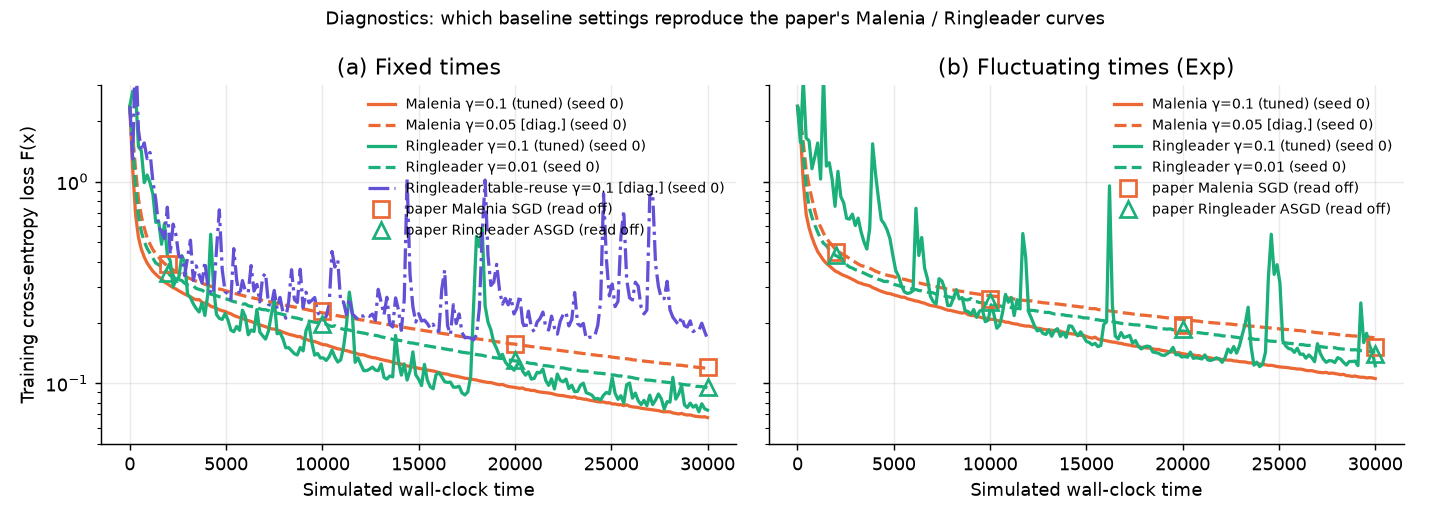
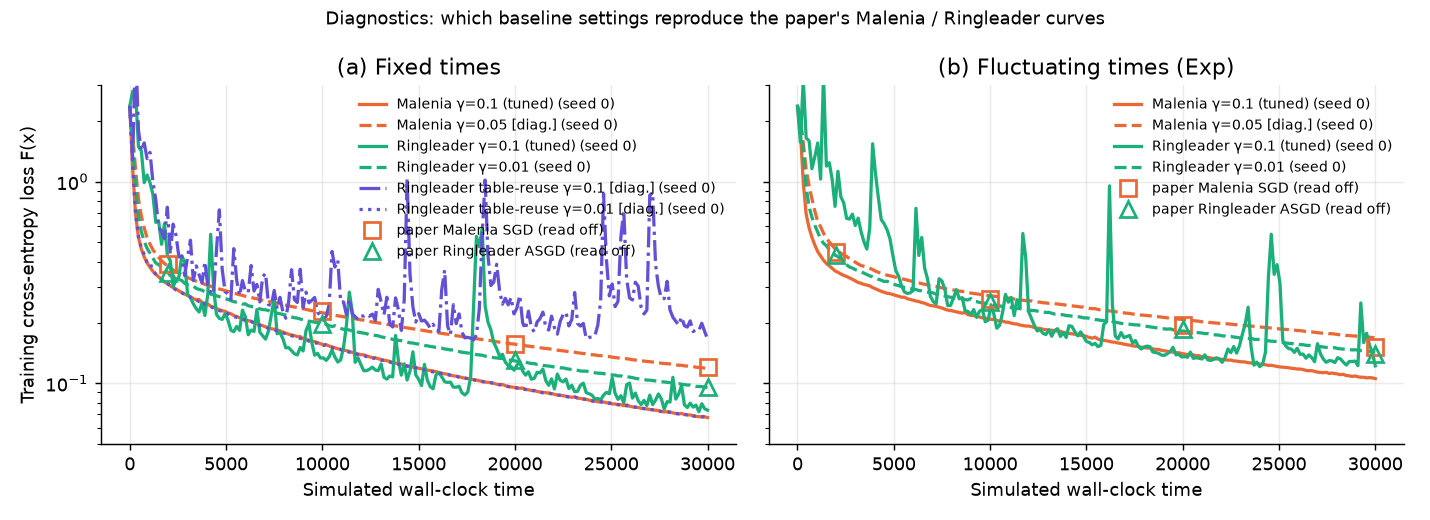
Rescaled ASGD replication: complete random-time Ringleader seeds, add stale-table diagnostic
Random-time Ringleader now has 5 seeds (median final loss 0.122). Adds the
table-reuse Ringleader diagnostic on MNIST (0.067 at gamma=0.01, fixed times,
seed 0) and regenerates the figures. The headline comparison stays on the
tuned gamma=0.1; paper-matching baseline stepsizes are given as a note only.

diff --git a/README.md b/README.md
@@ -22,7 +22,7 @@ Each one is pinned down with a clearly labelled diagnostic run below.
 |---|---|---|---|
 | E1 Fig. 1(a) MNIST, fixed τ | Rescaled ASGD beats Malenia and Ringleader; final loss ≈0.029 / 0.120 / 0.096 | Rescaled 0.029 (median of 5 seeds; curve matches the paper at every read-off point). Tuned baselines: Malenia 0.068, Ringleader 0.099 | **Replicated** (Rescaled wins by 2.3–3.4×, versus about 3–4× in the paper) |
 | E1 tuning | selected γ lie in the interior of {1e-4,…,1} | γ = 0.1 for all three methods (interior) | Replicated |
-| E2 Fig. 1(b) MNIST, Exp times | Malenia and Ringleader slowed; Rescaled "virtually identical" (≈0.029 / 0.152 / 0.140) | Rescaled 0.030 (same as fixed); Malenia 0.101 (vs 0.068 fixed); Ringleader 0.122 (seed 0 only, see note) | **Replicated** |
+| E2 Fig. 1(b) MNIST, Exp times | Malenia and Ringleader slowed; Rescaled "virtually identical" (≈0.029 / 0.152 / 0.140) | Rescaled 0.030 (same as fixed); Malenia 0.101 (vs 0.068 fixed); Ringleader 0.122 (vs 0.099 fixed) | **Replicated** |
 | Baseline curves themselves | – | the paper's Malenia curve equals our Malenia at **γ = 0.05** (off-grid); its Ringleader curve equals our verbatim Ringleader at **γ = 0.01**, in both settings to within about 3% | Discrepancy in the baselines' stepsizes (see E1) |
 | E3 Fig. 2 cumulative step | fixed: all advance α per τ_max; fluctuating: Malenia and Ringleader stall | Rescaled and Malenia match exactly. Ringleader (Alg. 1 verbatim) makes only 0.665 α/τ_max with fixed harmonic times (9.0 vs 13.7 at 14.3 τ_max). The fluctuating panel matches | **Partially** (Ringleader schedule in 2(a) not reproducible with Alg. 1 as published) |
 | E4 Fig. 3 Vanilla vs Rescaled | Rescaled → x* = −2/3, Vanilla → x̃* = 1/2; Vanilla faster "for the same cycle stepsize" | Targets replicated. The paper's curves are reproduced to 2 decimals only with *different* cycle stepsizes (0.0133 vs 0.03); with equal α, Rescaled is faster | Targets replicated; speed statement **not replicated as written** |
@@ -68,11 +68,7 @@ Median over seeds and [min, max] (`results/mnist_summary.json`; hollow markers i
 | fixed | Ringleader ASGD | 0.1 | 0.642 | 0.155 | 0.116 | **0.099** [0.074, 0.221] | 12,492 | 0.354/0.196/0.130/0.096 |
 | exp | Rescaled ASGD | 0.1 | 0.301 | 0.098 | 0.048 | **0.0302** [0.0271, 0.0329] | ≈116,000 | 0.275/0.092/0.051/0.029 |
 | exp | Malenia SGD | 0.1 | 0.359 | 0.207 | 0.136 | **0.101** [0.1005, 0.1089] | ≈1,140 | 0.447/0.263/0.195/0.152 |
-| exp | Ringleader ASGD | 0.1 | 0.753 | 0.245 | 0.135 | **0.122** (seed 0 only*) | 7,240 | 0.43/0.254/0.185/0.140 |
-
-\*Seeds 1–4 of exp/Ringleader were still running when this commit was made, because the
-machine was heavily shared. `python run_mnist.py --methods rescaled,malenia,ringleader`
-followed by `python plot.py` completes them (finished runs are cached).
+| exp | Ringleader ASGD | 0.1 | 0.970 | 0.245 | 0.130 | **0.122** [0.089, 0.153] | 7,240 | 0.43/0.254/0.185/0.140 |
 
 Tuning (final loss at T = 30,000, seed 0; see `figures/fig1_tuning.png`):
 
@@ -105,13 +101,22 @@ Tuning (final loss at T = 30,000, seed 0; see `figures/fig1_tuning.png`):
     the edge of stability: there is a loss spike early on, the median at t=2,000 is 0.64,
     and the 5-seed final losses span 0.074–0.221 (median 0.099). So the choice between
     0.1 and 0.01 depends on the tuning seed.
-  * With the table-reuse Ringleader variant (the one that matches the Fig. 2(a)
-    schedule), γ = 0.1 gives final loss 0.165 (fixed, seed 0). Its loss curves do *not*
-    look like the paper's Fig. 1, while the verbatim algorithm's do. Fig. 1 and Fig. 2(a)
-    of the paper therefore seem to come from different Ringleader implementations.
+  * **[diagnostic]** Ringleader, table-reuse variant (the one that matches the Fig. 2(a)
+    schedule), fixed times, seed 0: final loss **0.067 at γ = 0.01** (18,741 updates) and
+    0.165 at γ = 0.1. At γ = 0.01 it is clearly *better* than both the paper's Ringleader
+    (0.096) and our verbatim Ringleader at the same γ (0.095). So the paper's Fig. 1
+    Ringleader curve is the verbatim algorithm, not this variant. Fig. 1 and Fig. 2(a)
+    therefore seem to come from different Ringleader implementations.
   * Net effect: with the paper's (apparent) baseline stepsizes, the paper's 3–4× final-loss
     gap is reproduced exactly. With baselines tuned by the stated protocol, the gap
     shrinks to 2.3× (Malenia, fixed) to 3.4× (Ringleader, fixed), and Rescaled ASGD still wins.
+
+> **Note on the headline comparison.** All headline numbers (table above,
+> `figures/fig1_mnist.png`) use the stepsize **γ = 0.1** that the paper's protocol selects
+> for every method. The paper's baseline curves match Malenia at γ = 0.05 and Ringleader
+> at γ = 0.01. Those values come from single-seed diagnostic runs
+> (`figures/fig1_diagnostics.png`) and are given here only as a note. Which stepsizes
+> the headline should use is still an open decision.
 
 
 ## E3 — Fig. 2: cumulative stepsize (schedule only)
@@ -235,7 +240,7 @@ Python: the shared venv `/home/funny36/Documents/mrtvc/asynchronous-training/.ve
 PY=/home/funny36/Documents/mrtvc/asynchronous-training/.venv/bin/python
 $PY run_toy.py                     # Figs. 2-4 (schedules + toy problems), ~1 min
 $PY run_mnist.py --procs 4 --methods rescaled,malenia,ringleader   # Fig. 1, tuning + 5 seeds
-$PY run_mnist.py --procs 4 --methods ringleader_reuse --settings fixed   # diagnostic
+$PY -c 'import run_mnist as R; [R.run_one(("fixed", "ringleader_reuse", g, 0, 30000.0)) for g in (0.1, 0.01)]'  # diagnostic, seed 0
 $PY run_diag.py                    # Malenia at gamma=0.05 (diagnostic)
 $PY plot.py                        # figures/*.png
 ```
@@ -243,7 +248,7 @@ $PY plot.py                        # figures/*.png
 `run_mnist.py` caches every run in `results/mnist/<setting>_<method>_g<gamma>_s<seed>.npz`
 and writes `results/mnist_summary.json` (tuning tables, per-seed final losses, medians).
 A run at T = 30,000 takes 2–5 min on one core of this (shared, loaded) laptop. The whole
-replication took about 1 h 50 min (the machine was shared with other jobs, load ≈ 13–23; a run took 2–10 min) of wall time with 4–5 processes.
+replication took about 2 h 20 min (the machine was shared with other jobs, load ≈ 13–23; a run took 2–10 min) of wall time with 4–5 processes.
 
 ### Files
 
